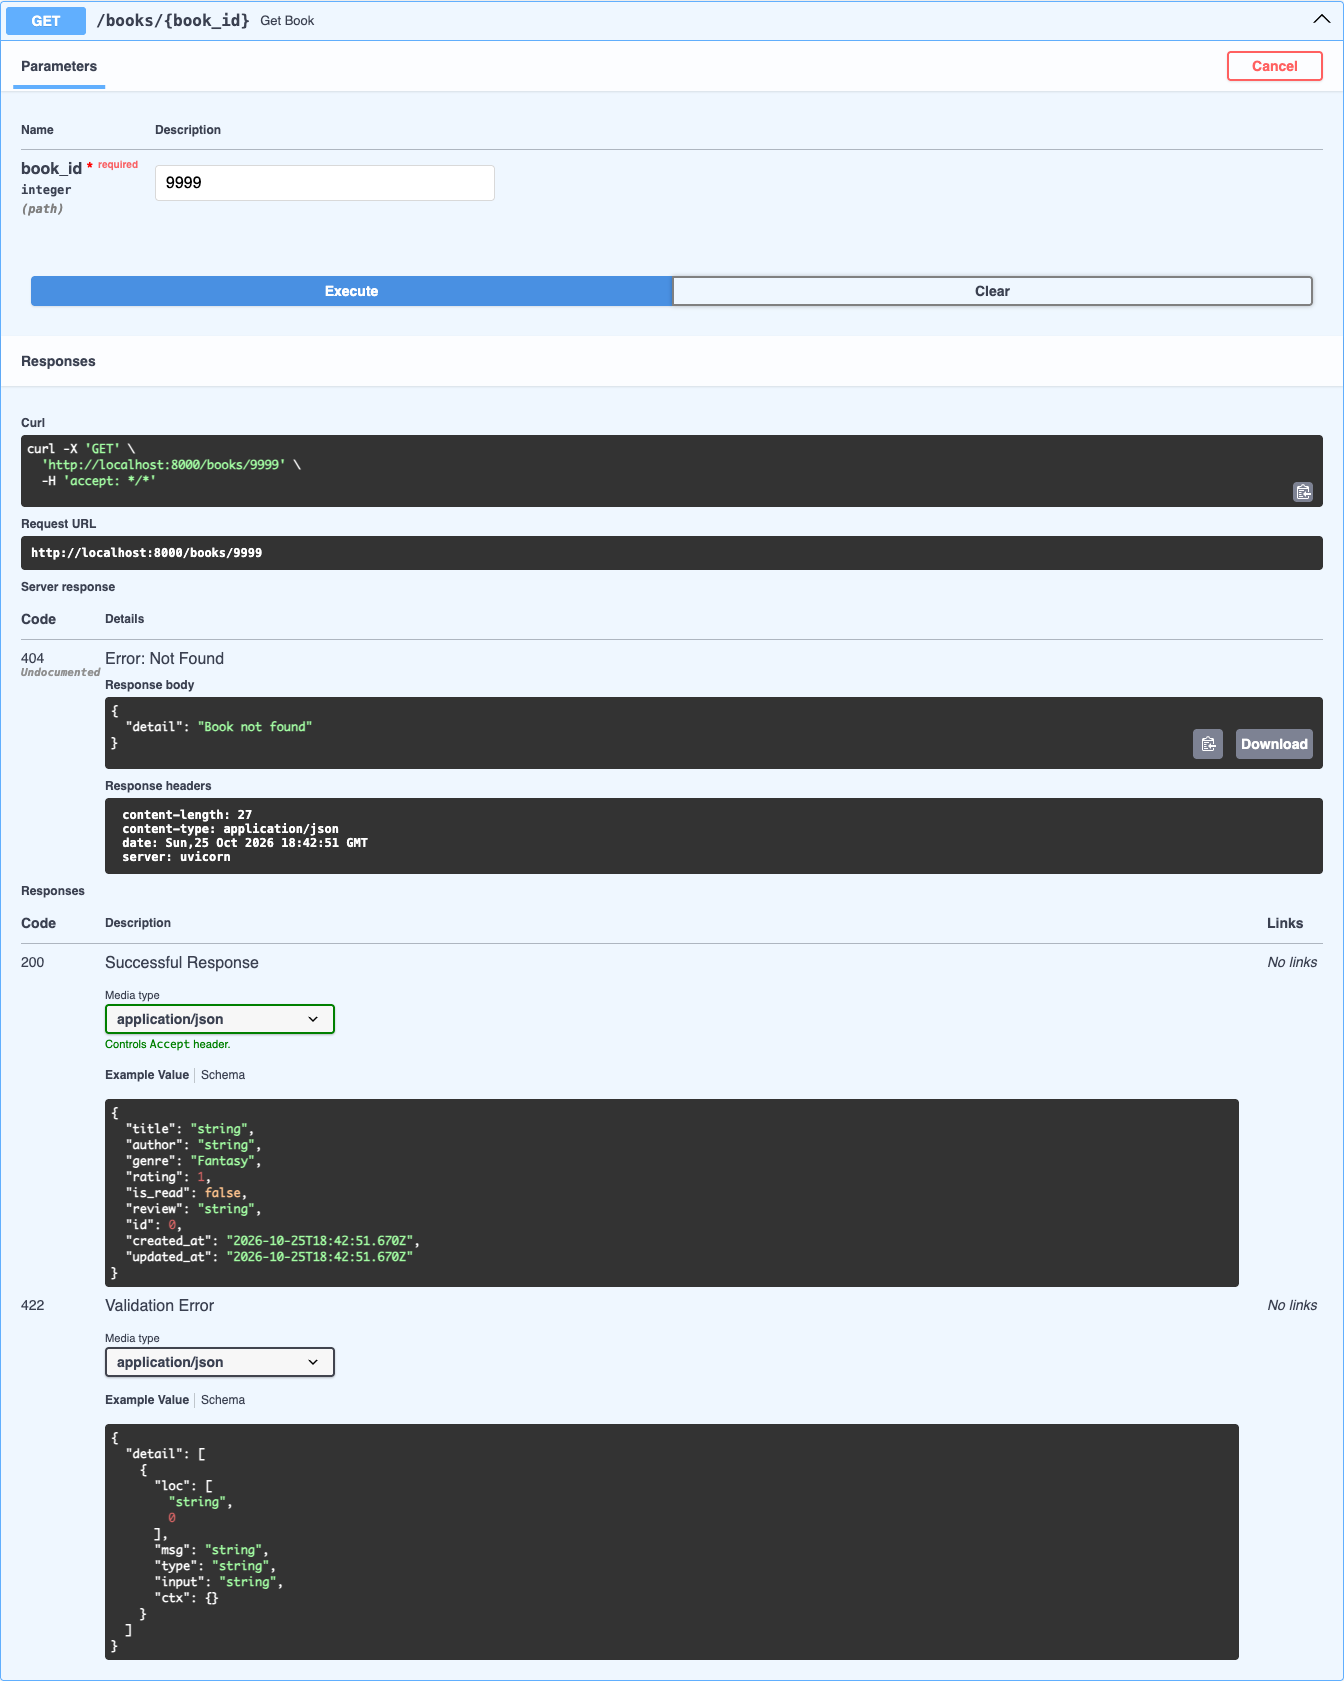
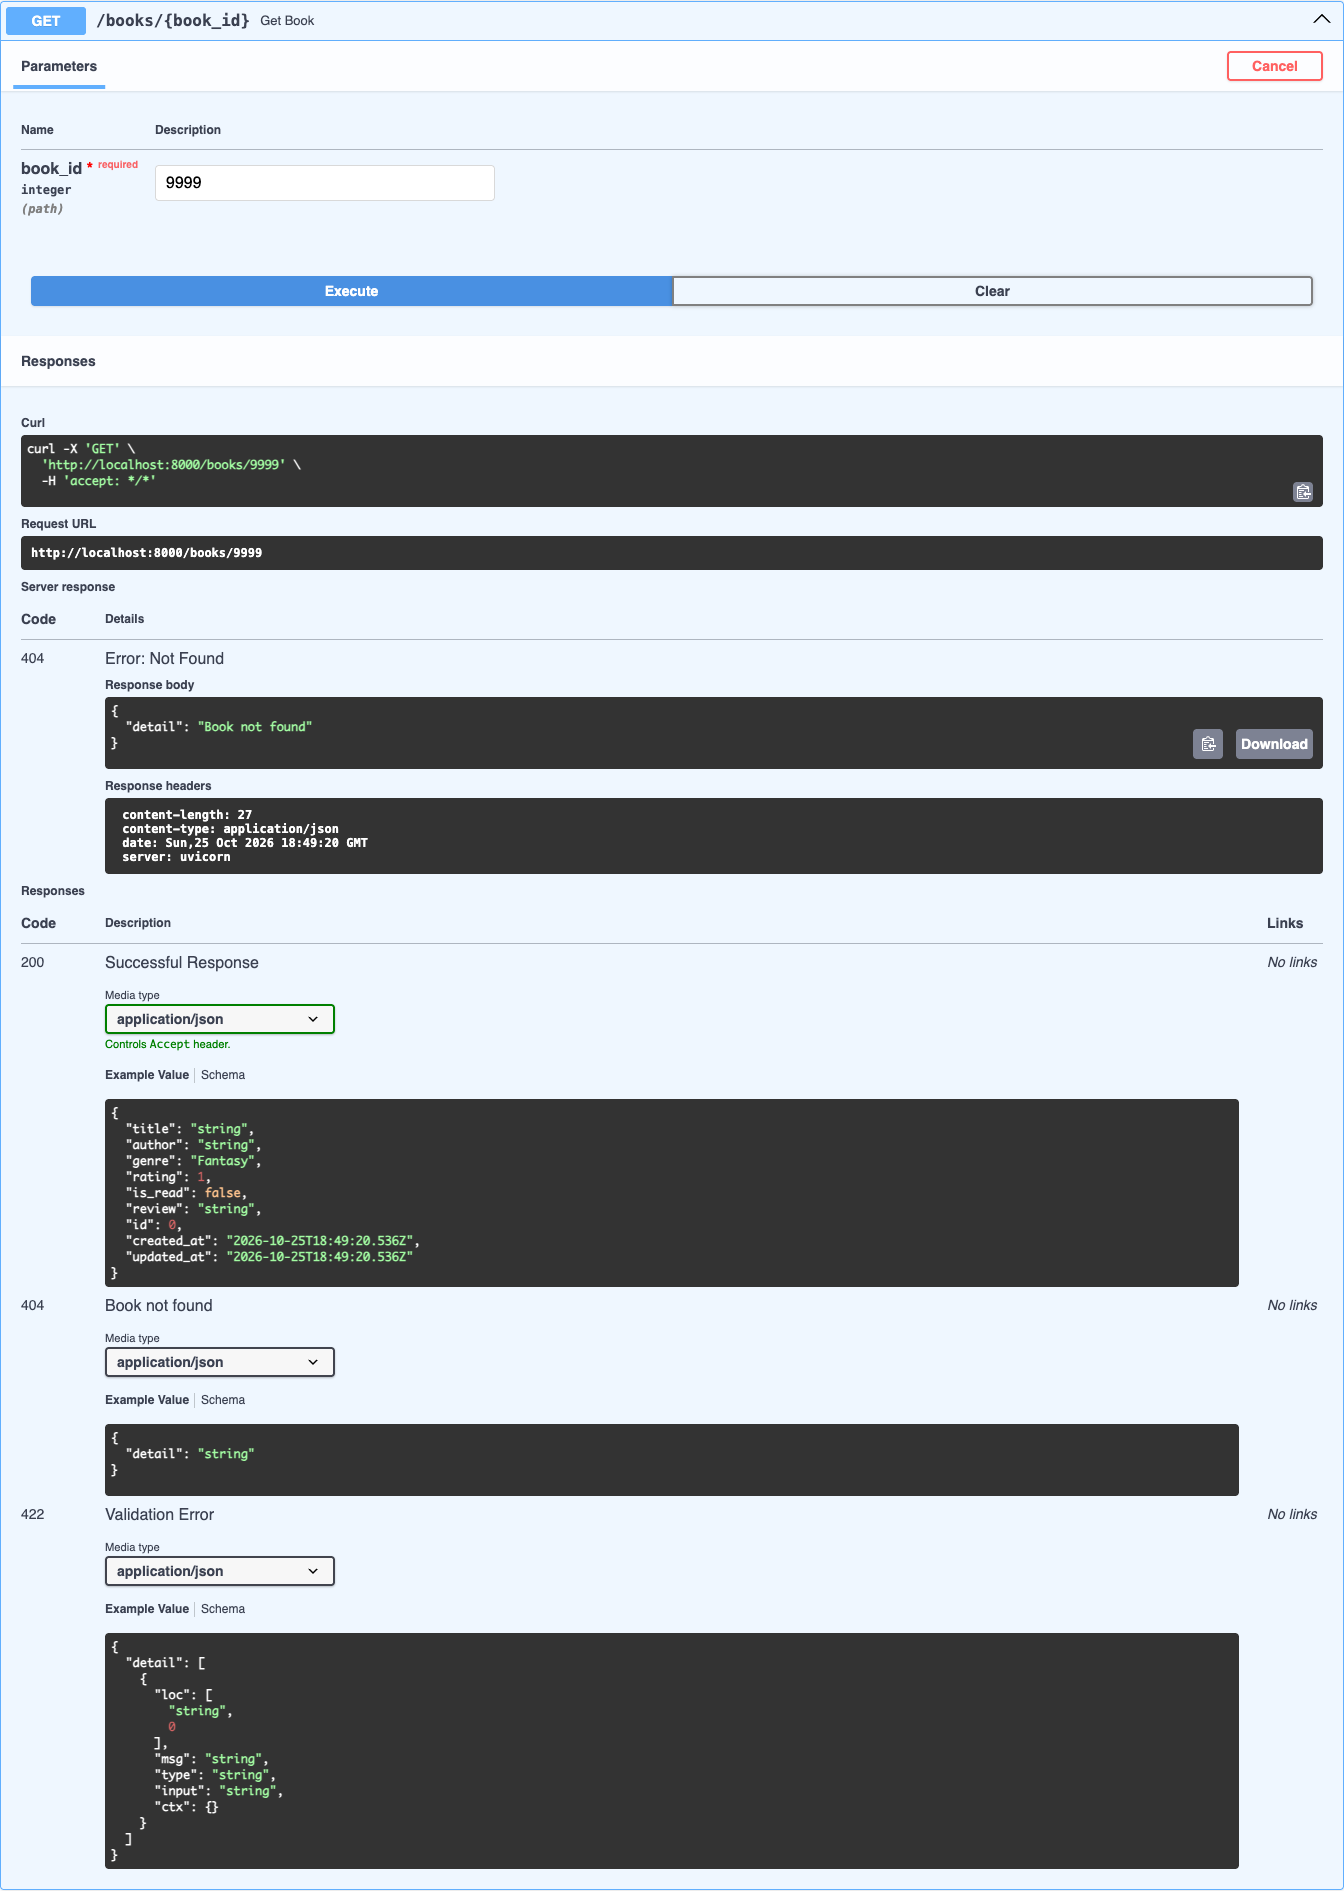
Document 404 responses, raise coverage, refresh evidence
Declare the 404 response (with a shared ErrorResponse schema) on GET, PUT
and DELETE /books/{book_id} so it appears in the OpenAPI docs, and use one
BOOK_NOT_FOUND message for all three. Move the SQLite directory creation into
ensure_sqlite_dir() so it can be tested, and add tests for it, the real
get_db dependency and the documented 404s (47 tests, 100% coverage).
Refresh the affected evidence and numbers in PROOF.md and the README.

diff --git a/book-vault/tests/test_main.py b/book-vault/tests/test_main.py
@@ -1,15 +1,16 @@
 """API tests for the Book Vault: CRUD, filters, validation, 404s and persistence."""
 
+import os
 from collections.abc import Generator
 from pathlib import Path
 from typing import Any
 
 import pytest
 from fastapi.testclient import TestClient
-from sqlalchemy import create_engine
+from sqlalchemy import create_engine, text
 from sqlalchemy.orm import Session, sessionmaker
 
-from app.database import Base, get_db
+from app.database import DEFAULT_DATABASE_URL, Base, ensure_sqlite_dir, get_db
 from app.main import app
 
 VALID_BOOK: dict[str, Any] = {
@@ -273,6 +274,73 @@ def test_delete_missing_book_returns_404(client: TestClient) -> None:
     response = client.delete(f"/books/{MISSING_ID}")
     assert response.status_code == 404
     assert response.json() == {"detail": "Book not found"}
+
+
+def test_404_documented_in_openapi(client: TestClient) -> None:
+    spec = client.get("/openapi.json").json()
+    operations = spec["paths"]["/books/{book_id}"]
+    for method in ("get", "put", "delete"):
+        not_found = operations[method]["responses"].get("404")
+        assert not_found is not None, f"404 not documented on {method.upper()}"
+        assert not_found["description"] == "Book not found"
+        schema_ref = not_found["content"]["application/json"]["schema"]["$ref"]
+        assert schema_ref == "#/components/schemas/ErrorResponse"
+    error_schema = spec["components"]["schemas"]["ErrorResponse"]
+    assert error_schema["properties"]["detail"]["type"] == "string"
+
+
+# ----------------------------------------------------------------------- Database
+
+
+def test_get_db_yields_session_and_closes_it() -> None:
+    """The real get_db dependency (not the test override) opens and closes a session."""
+    dependency = get_db()
+    db = next(dependency)
+    assert isinstance(db, Session)
+    assert db.execute(text("SELECT 1")).scalar_one() == 1
+    assert db.in_transaction()
+    # Finishing the generator (what FastAPI does after the response) runs `finally`.
+    with pytest.raises(StopIteration):
+        next(dependency)
+    assert not db.in_transaction()
+
+
+def test_get_db_closes_session_on_error() -> None:
+    """If the request handler raises, the session is still closed."""
+    dependency = get_db()
+    db = next(dependency)
+    db.execute(text("SELECT 1"))
+    with pytest.raises(RuntimeError):
+        dependency.throw(RuntimeError("handler failed"))
+    assert not db.in_transaction()
+
+
+def test_default_database_dir_is_created(tmp_path: Path, monkeypatch: pytest.MonkeyPatch) -> None:
+    # Run from an empty temp dir so the relative ./data path never hits the real one.
+    monkeypatch.chdir(tmp_path)
+    assert not (tmp_path / "data").exists()
+    ensure_sqlite_dir(DEFAULT_DATABASE_URL)
+    assert (tmp_path / "data").is_dir()
+    ensure_sqlite_dir(DEFAULT_DATABASE_URL)  # idempotent: no error if it already exists
+
+
+def test_custom_database_url_dir_is_created(
+    tmp_path: Path, monkeypatch: pytest.MonkeyPatch
+) -> None:
+    db_file = tmp_path / "nested" / "dir" / "books.db"
+    monkeypatch.setenv("DATABASE_URL", f"sqlite:///{db_file}")
+    ensure_sqlite_dir(os.environ["DATABASE_URL"])
+    assert db_file.parent.is_dir()
+    assert not db_file.exists()  # only the directory; SQLite creates the file itself
+
+
+@pytest.mark.parametrize("url", ["sqlite://", "sqlite:///:memory:"])
+def test_in_memory_database_creates_no_dirs(
+    url: str, tmp_path: Path, monkeypatch: pytest.MonkeyPatch
+) -> None:
+    monkeypatch.chdir(tmp_path)
+    ensure_sqlite_dir(url)
+    assert list(tmp_path.iterdir()) == []
 
 
 # -------------------------------------------------------------------- Persistence

diff --git a/book-vault/app/main.py b/book-vault/app/main.py
@@ -2,6 +2,7 @@
 
 from collections.abc import AsyncIterator
 from contextlib import asynccontextmanager
+from typing import Any
 
 from fastapi import Depends, FastAPI, HTTPException, Query, Response, status
 from sqlalchemy import select
@@ -9,7 +10,14 @@ from sqlalchemy.orm import Session
 
 from app.database import Base, engine, get_db
 from app.models import Book, utcnow
-from app.schemas import BookCreate, BookRead, BookUpdate, Genre
+from app.schemas import BookCreate, BookRead, BookUpdate, ErrorResponse, Genre
+
+BOOK_NOT_FOUND = "Book not found"
+
+# Declared on every /books/{book_id} route so the 404 appears in the OpenAPI docs.
+NOT_FOUND_RESPONSE: dict[int | str, dict[str, Any]] = {
+    status.HTTP_404_NOT_FOUND: {"model": ErrorResponse, "description": BOOK_NOT_FOUND},
+}
 
 
 @asynccontextmanager
@@ -31,7 +39,7 @@ def get_book_or_404(db: Session, book_id: int) -> Book:
     """Fetch a book by id, raising 404 if it doesn't exist."""
     book = db.get(Book, book_id)
     if book is None:
-        raise HTTPException(status_code=status.HTTP_404_NOT_FOUND, detail="Book not found")
+        raise HTTPException(status_code=status.HTTP_404_NOT_FOUND, detail=BOOK_NOT_FOUND)
     return book
 
 
@@ -63,12 +71,12 @@ def list_books(
     return list(db.scalars(query))
 
 
-@app.get("/books/{book_id}", response_model=BookRead)
+@app.get("/books/{book_id}", response_model=BookRead, responses=NOT_FOUND_RESPONSE)
 def get_book(book_id: int, db: Session = Depends(get_db)) -> Book:
     return get_book_or_404(db, book_id)
 
 
-@app.put("/books/{book_id}", response_model=BookRead)
+@app.put("/books/{book_id}", response_model=BookRead, responses=NOT_FOUND_RESPONSE)
 def update_book(book_id: int, payload: BookUpdate, db: Session = Depends(get_db)) -> Book:
     """Partially update a book: only fields present in the request body change."""
     book = get_book_or_404(db, book_id)
@@ -81,7 +89,9 @@ def update_book(book_id: int, payload: BookUpdate, db: Session = Depends(get_db)
     return book
 
 
-@app.delete("/books/{book_id}", status_code=status.HTTP_204_NO_CONTENT)
+@app.delete(
+    "/books/{book_id}", status_code=status.HTTP_204_NO_CONTENT, responses=NOT_FOUND_RESPONSE
+)
 def delete_book(book_id: int, db: Session = Depends(get_db)) -> Response:
     book = get_book_or_404(db, book_id)
     db.delete(book)

diff --git a/book-vault/app/database.py b/book-vault/app/database.py
@@ -4,15 +4,26 @@ import os
 from collections.abc import Generator
 from pathlib import Path
 
-from sqlalchemy import create_engine
+from sqlalchemy import create_engine, make_url
 from sqlalchemy.orm import DeclarativeBase, Session, sessionmaker
 
 DEFAULT_DATABASE_URL = "sqlite:///./data/books.db"
 DATABASE_URL = os.getenv("DATABASE_URL", DEFAULT_DATABASE_URL)
 
-# SQLite won't create missing parent directories, so make sure ./data exists.
-if DATABASE_URL == DEFAULT_DATABASE_URL:
-    Path("./data").mkdir(parents=True, exist_ok=True)
+
+def ensure_sqlite_dir(url: str) -> None:
+    """Create the parent directory of a file-based SQLite database if it's missing.
+
+    SQLite creates the database file itself but not missing directories, so without
+    this the default ./data/books.db would fail on a fresh checkout. In-memory and
+    non-SQLite URLs are left alone.
+    """
+    parsed = make_url(url)
+    if parsed.get_backend_name() == "sqlite" and parsed.database not in (None, "", ":memory:"):
+        Path(parsed.database).parent.mkdir(parents=True, exist_ok=True)
+
+
+ensure_sqlite_dir(DATABASE_URL)
 
 # SQLite connections refuse cross-thread use by default; FastAPI may serve a
 # request on a different thread than the one that opened the connection.

diff --git a/book-vault/app/schemas.py b/book-vault/app/schemas.py
@@ -60,6 +60,12 @@ class BookUpdate(BaseModel):
         return self
 
 
+class ErrorResponse(BaseModel):
+    """Body of error responses raised with HTTPException (e.g. 404)."""
+
+    detail: str
+
+
 class BookRead(BookBase):
     """Response body: the stored book, built straight from the ORM object."""
 

diff --git a/book-vault/docs/proof/PROOF.md b/book-vault/docs/proof/PROOF.md
@@ -4,11 +4,15 @@ All evidence below was produced on 2026-10-25. Text files contain the exact comm
 that were run together with their full, unedited output. Screenshots were taken with
 Playwright driving Google Chrome against the running server, at a 1400×900 viewport.
 
+Evidence 01–03, 05 and 09 were refreshed after the 404 responses were documented in
+OpenAPI and the `database.py` tests were added. An earlier run on a fresh clone of the
+repository (commit `5af30da`) also passed ruff and every test.
+
 | # | Evidence | What it shows |
 |---|----------|---------------|
-| 01 | [01-ruff.txt](01-ruff.txt) | `uv sync` + `ruff check` on a fresh clone |
-| 02 | [02-pytest.txt](02-pytest.txt), [02-pytest.png](02-pytest.png) | Full test run on a fresh clone: 40 passed |
-| 03 | [03-coverage.txt](03-coverage.txt), [03-coverage.png](03-coverage.png) | Test coverage: 96% |
+| 01 | [01-ruff.txt](01-ruff.txt) | `uv sync` + `ruff check`: no issues |
+| 02 | [02-pytest.txt](02-pytest.txt), [02-pytest.png](02-pytest.png) | Full test run: 47 passed |
+| 03 | [03-coverage.txt](03-coverage.txt), [03-coverage.png](03-coverage.png) | Test coverage: 100% |
 | 04 | [04-api-demo.txt](04-api-demo.txt) | Live curl session against the server, including a restart |
 | 05–09 | Swagger UI screenshots | Interactive docs, with real requests executed |
 | 10 | [10-docker.txt](10-docker.txt) | Docker build, run, restart and persistence |
@@ -25,8 +29,10 @@ generated automatically at `/docs`.
 Pydantic v2 schemas reject bad input with FastAPI's standard `422` response. The
 checks cover ratings outside 1–5, empty or whitespace-only titles and authors, unknown
 genres, and missing fields. The demo shows rating 6 and an empty title both returning
-`422` (steps 10–11 in [04-api-demo.txt](04-api-demo.txt)). The 404 screenshot shows a
-missing id returning `{"detail": "Book not found"}`.
+`422` (steps 10–11 in [04-api-demo.txt](04-api-demo.txt)). A missing id returns
+`404` with `{"detail": "Book not found"}`. That 404 is declared in OpenAPI, using an
+`ErrorResponse` schema, on `GET`, `PUT` and `DELETE /books/{book_id}`, so Swagger lists
+it as a documented response. A test checks `/openapi.json` to confirm this.
 
 ![422 for rating 6 in Swagger UI](08-swagger-422.png)
 
@@ -58,19 +64,28 @@ temporary file.
 
 ## Tests
 
-The suite has 40 pytest tests, each with an isolated in-memory database. They cover
-CRUD, every filter and filter combinations, validation `422`s, `404`s, and
-persistence. On a fresh clone of the repository, all 40 pass, and ruff reports no
-issues ([01-ruff.txt](01-ruff.txt), [02-pytest.txt](02-pytest.txt)).
+The suite has 47 pytest tests, each with an isolated in-memory database. They cover:
 
-![pytest output: 40 passed](02-pytest.png)
+- CRUD
+- every filter, and filter combinations
+- validation `422`s and `404`s
+- the documented 404s in OpenAPI
+- the real `get_db` dependency
+- creation of the database directory
+- persistence
+
+All 47 pass, and ruff reports no issues ([01-ruff.txt](01-ruff.txt),
+[02-pytest.txt](02-pytest.txt)).
+
+![pytest output: 47 passed](02-pytest.png)
 
 ## Coverage
 
-Coverage is 96% overall, and 100% for `main.py`, `models.py` and `schemas.py`
-([03-coverage.txt](03-coverage.txt)). The only lines not covered are in
-`database.py`: the code that creates `./data` and the production `get_db`. The tests
-deliberately replace both with an isolated test database.
+Coverage is 100% for every module in `app/` (137 of 137 statements), with no lines
+excluded by `# pragma: no cover` ([03-coverage.txt](03-coverage.txt)). The real `get_db`
+dependency is tested directly: the session is closed both after a normal request and
+after an error. Directory creation is tested in a temporary directory, so the real
+`data/` folder is never touched.
 
 ![HTML coverage report](03-coverage.png)
 

diff --git a/book-vault/README.md b/book-vault/README.md
@@ -140,7 +140,8 @@ uv run pytest -v
 
 Each test runs against its own fresh in-memory database, so tests never touch
 `./data/books.db`. The suite covers CRUD, every filter and filter combinations,
-validation errors, 404s, and persistence across an engine restart.
+validation errors, 404s (including that they're documented in OpenAPI), the
+`get_db` dependency, and persistence across an engine restart.
 
 Coverage report (terminal + HTML in `htmlcov/`):
 
@@ -185,8 +186,8 @@ stage, and the runtime stage is `python:3.11-slim` running as a non-root user.
 [docs/proof/PROOF.md](docs/proof/PROOF.md) collects evidence that the project works.
 It includes:
 
-- a lint and test run on a fresh clone of the repository
-- the test coverage report
+- a lint and test run (47 tests, all passing)
+- the test coverage report (100%)
 - a live curl session, including a server restart
 - Swagger UI screenshots of real requests
 - a Docker run that shows the data survives container restarts

diff --git a/book-vault/CLAUDE.md b/book-vault/CLAUDE.md
@@ -49,8 +49,11 @@ data/           runtime SQLite file (gitignored, also the Docker volume at /app/
   that omitted fields are left alone. New optional fields on `BookUpdate` must
   follow the same pattern. If a new column is NOT NULL, add it to the explicit-null
   check in `BookUpdate`.
-- **Errors.** Use `get_book_or_404()` for id lookups. Leave validation errors to
-  FastAPI's default `422` response.
+- **Errors.** Use `get_book_or_404()` for id lookups, so the 404 message is always
+  `BOOK_NOT_FOUND`. Every `/books/{book_id}` route declares
+  `responses=NOT_FOUND_RESPONSE` so the 404 is documented in OpenAPI, and
+  `test_404_documented_in_openapi` checks this. Leave validation errors to FastAPI's
+  default `422` response.
 - **Tests are required.** Every new endpoint needs tests for success, validation
   (`422`) and not-found (`404`) cases. Use the `client` fixture and never point tests
   at `./data/books.db`.
